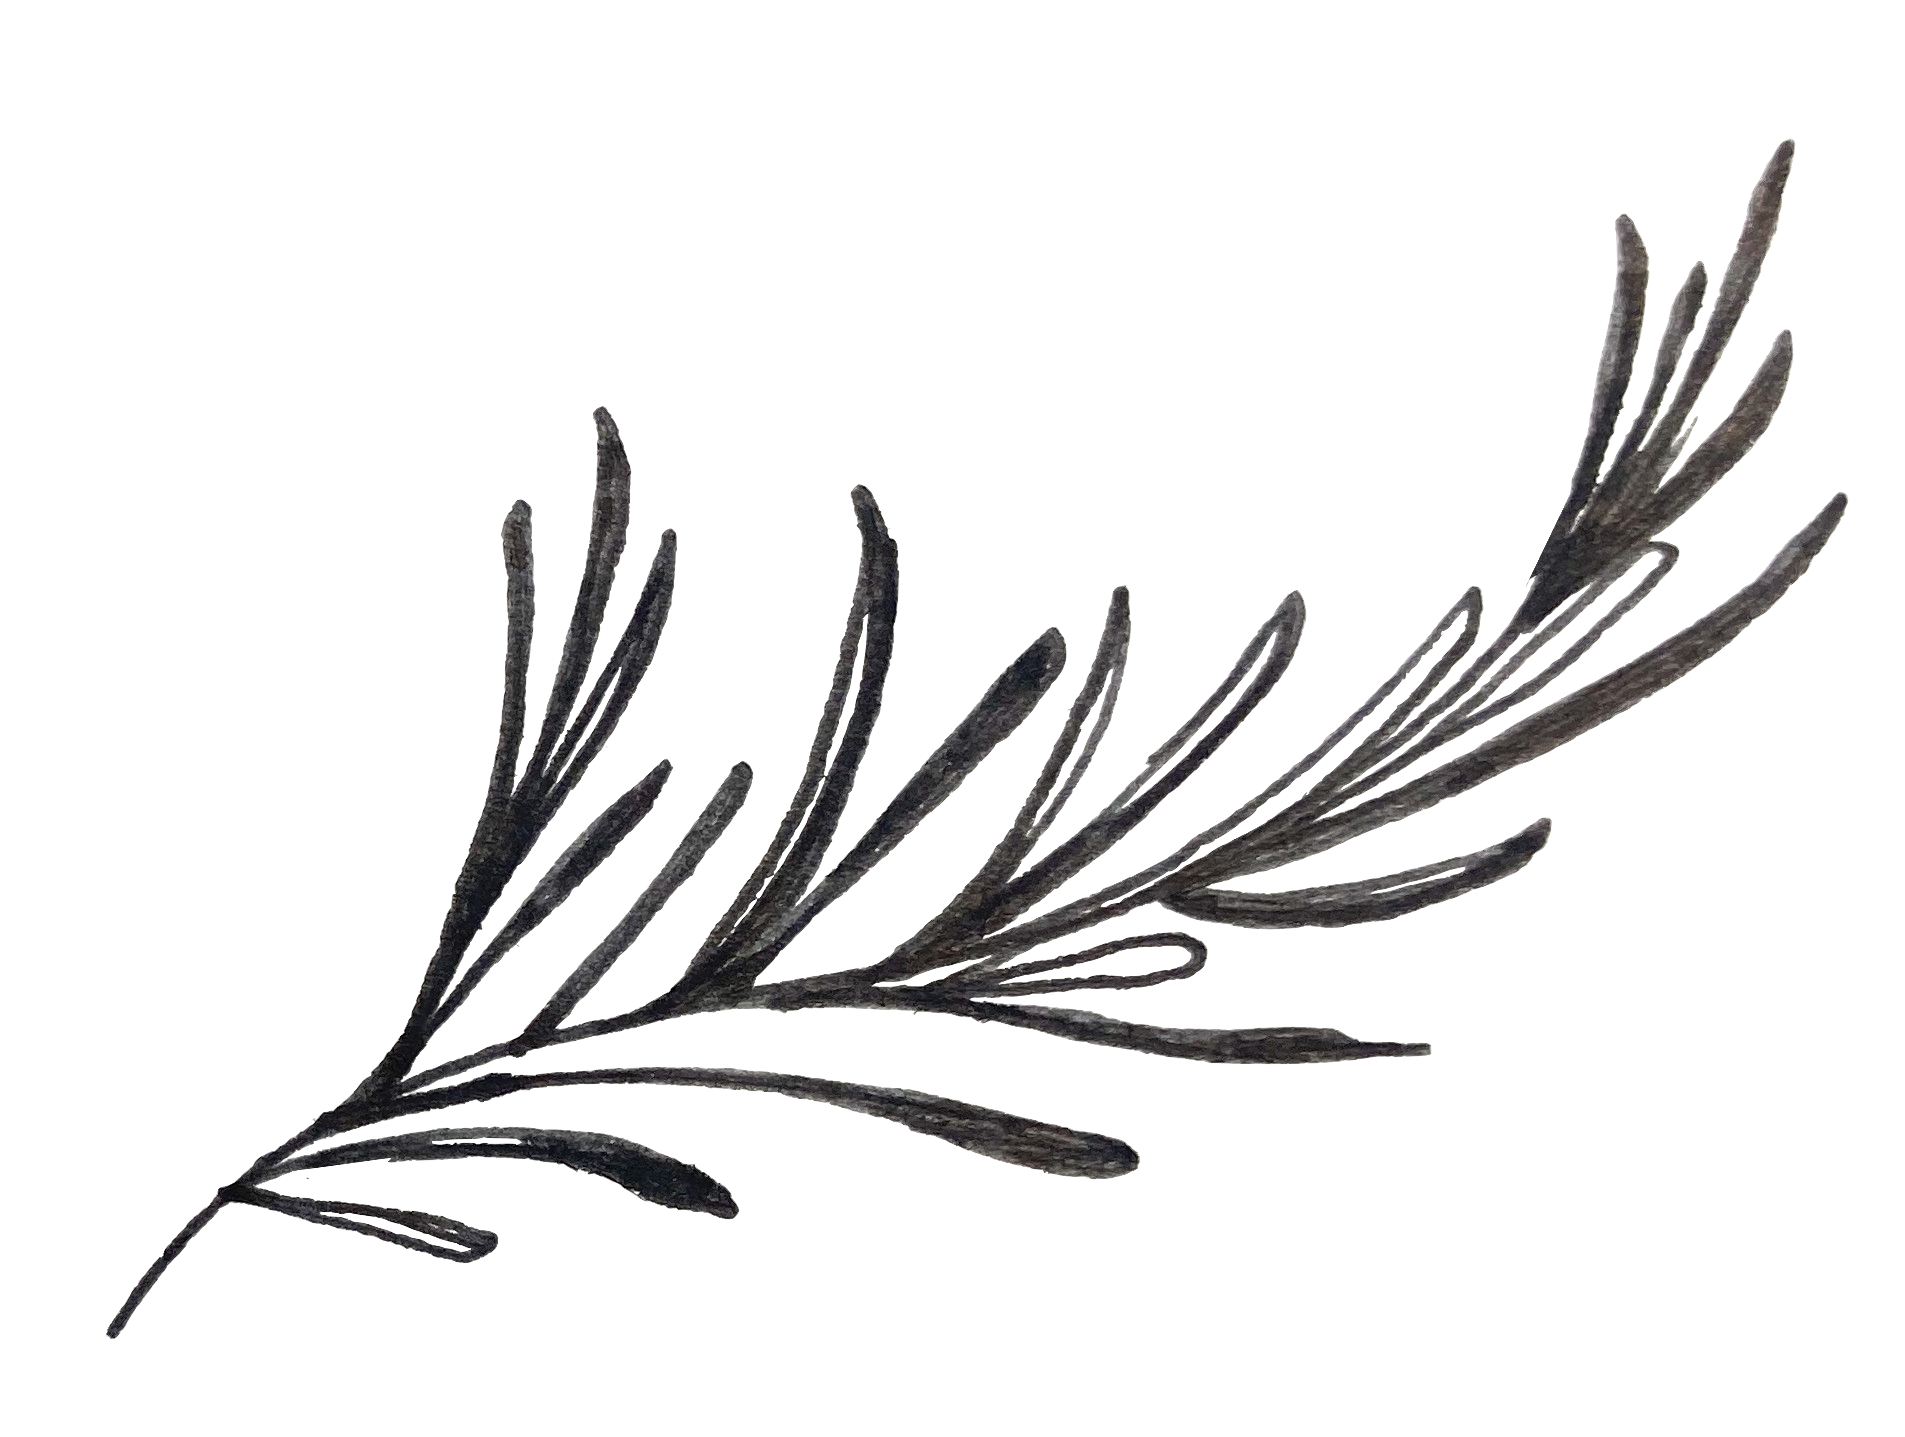
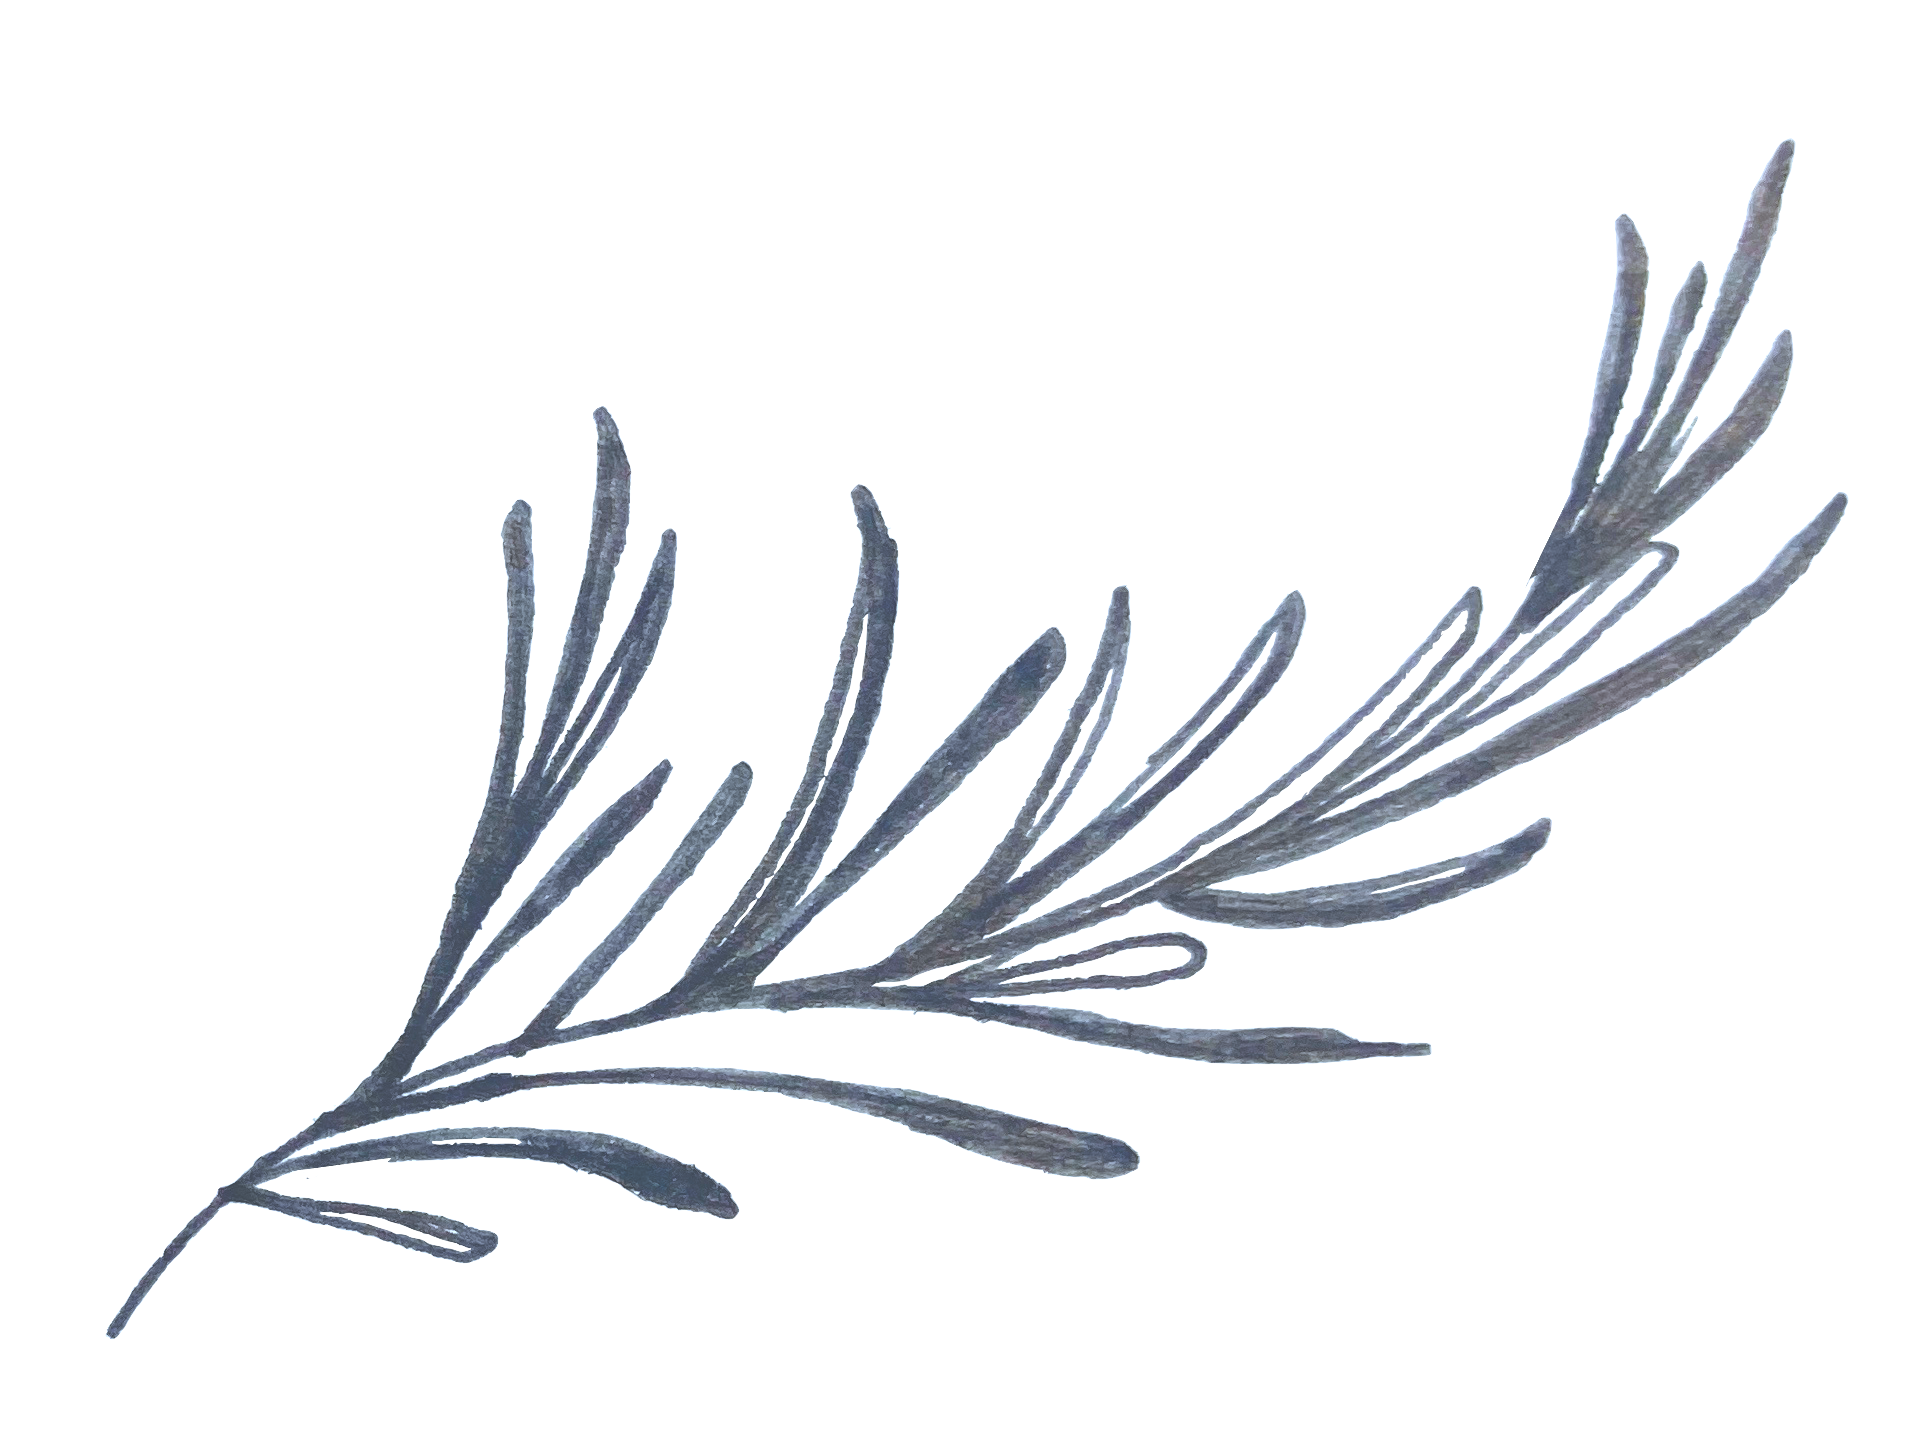
blue text

Changed region(s): [[0.0929, 0.0919, 0.9911, 0.888], [0.0619, 0.8573, 0.0929, 0.9186], [0.8052, 0.5511, 0.8362, 0.5818]]

diff --git a/index.html b/index.html
@@ -20,7 +20,7 @@
 <body>
 
     <div id="rosemary">
-        <a onclick="rosemary()"><img src="img/rosemary-1.jpg" alt=""></a>
+        <a onclick="rosemary()"><img src="img/rosemary.png" alt=""></a>
     </div>
     <div id="main-wrapper">
         <main id="home">
@@ -58,12 +58,12 @@
                 </p>
                 <h2>Reception</h2>
                 <p>
-                    63 Eastwood Drive E.<br>Hartland, CT 06027
+                    63 Eastwood Drive<br>East Hartland, CT 06027
                 </p>
                 <h2>Gifts</h2>
                 <p class="select-off">
-                    Since Ellie and Matthias will be moving to France soon after the wedding, they kindly request that
-                    gifts be envelope size.
+                    Since Ellie and Matthias will be moving to France soon after the wedding, they have no registry and
+                    kindly request that any gifts be envelope size.
                 </p>
                 <h2>Contact</h2>
                 <p>wedding@ellie-matthias.rsvp<br>(860) 491-5625</p>

diff --git a/script.js b/script.js
@@ -27,7 +27,7 @@ function frog() {
     pageId = "frog";
     document.getElementById('pictures').style.display = "none";
     load();
-    document.title = "Tree Frog| Ellie and Matthias"
+    document.title = "Tree Frog | Ellie and Matthias"
     document.getElementById(pageId).style.animation = "load 0.5s";
     document.getElementById(pageId).style.animationFillMode = "forwards"; document.getElementById(pageId).style.mozAnimationFillMode = "forwards", msAnimationFillMode = "forwards", oAnimationFillMode = "forwards";
 }
@@ -40,7 +40,7 @@ function load() {
 
 function back() {
     document.getElementById('home').style.display = "";
-    document.getElementById('rosemary').style.opacity = "0.7";
+    document.getElementById('rosemary').style.opacity = "1";
     document.getElementById('info').style.display = "none";
     document.getElementById('pictures').style.display = "none";
     document.getElementById('rosemary-page').style.display = "none";

diff --git a/style.css b/style.css
@@ -1,7 +1,9 @@
 :root {
     /* --background: rgb(252, 245, 235); */
-    --background: #fcf5ef;
-    --text: rgb(80, 80, 80);
+    --background: #fefbf9;
+    /* --background: #e1e8ef; */
+    /* --text: rgb(80, 80, 80); */
+    --text: #44647f;
     --faint: rgb(200, 200, 200);
 }
 
@@ -60,15 +62,12 @@ a {
     bottom: 0px;
     right: 0px;
     padding: 50px;
-    opacity: 0.7;
     transition-duration: 0.3s;
-    animation: rosemary-load 2s;
+    animation: load 1.5s;
 }
 
 #rosemary img {
     width: 250px;
-    filter: saturate(0);
-    mix-blend-mode: darken;
     transition: 0.2s;
 }
 
@@ -163,12 +162,11 @@ header,
 }
 
 .back img {
-    width: 13px;
-    opacity: 0.7;
+    width: 20px;
 }
 
 .back img:hover {
-    width: 15px;
+    width: 23px;
 }
 
 nav.links {
@@ -221,7 +219,6 @@ article {
 
 #rosemary-header img {
     width: 150px;
-    opacity: 0.8;
     mix-blend-mode: darken;
 }
 
